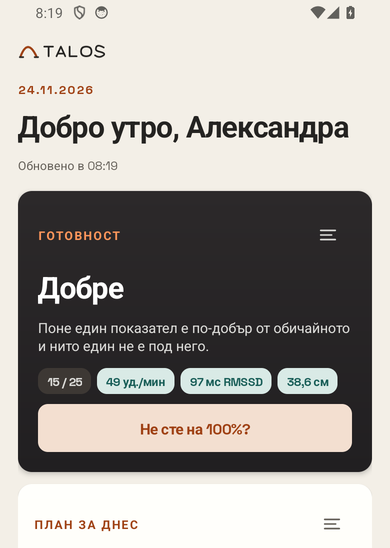
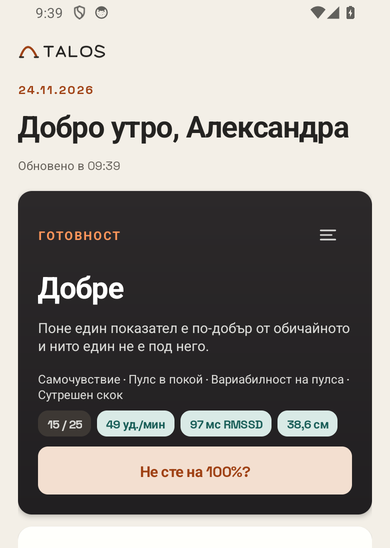
Version 1.4.0-beta16, with the labelled readiness card in the documentation

Changed region(s): [[0.0308, 0.6515, 0.9538, 0.9927], [0.2462, 0.2792, 0.3077, 0.3102], [0.0923, 0.0, 0.1538, 0.031]]

diff --git a/docs/scenarii-demo.md b/docs/scenarii-demo.md
@@ -21,7 +21,7 @@
 1. Предната вечер: отворете https://jumpscan.stormlabs.cloud, влезте с трите демо акаунта и проверете,
    че Александра има история, „Отбор“ показва шестима, а „Готовност“ — всички състояния. Демо данните
    се възстановяват всяка нощ в 3:00 (`python -m server.seed --reset-demo`); влезте отново сутринта.
-2. Телефонът: приложение 1.4.0-beta15, зареден над 80 %, „Не безпокойте“, яркост на максимум, вход като
+2. Телефонът: приложение 1.4.0-beta16, зареден над 80 %, „Не безпокойте“, яркост на максимум, вход като
    `athlete1@demo.test`. Изберете предварително проверен клип и го анализирайте веднъж сутринта, за да
    сте сигурни, че дава число без предупреждение. [АВТОР: кой клип — име на файла.]
 3. Лаптопът: слайдовете (`docs/out/slides.pdf`) в един прозорец, браузър с входа като

diff --git a/docs/predavane.md b/docs/predavane.md
@@ -93,7 +93,7 @@
 ## Преди защитата [АВТОР]
 
 - Системата е публикувана и тестовите акаунти работят (`testovi-akaunti.md`): влезте с администратор,
-  треньор и спортист. Сървърът на живо върви на кода на версия 1.4.0-beta15 и демо данните се
+  треньор и спортист. Сървърът на живо върви на кода на версия 1.4.0-beta16 и демо данните се
   възстановяват всяка нощ; след регистрацията не пускайте нови версии без нужда.
 - На сървъра на живо е свързан облачен модел (NVIDIA, безплатен план); за спортисти под 18 години е изключен.
   Решете дали за защитата да остане той или локален модел на машината с видеокарта. Без него AI помощникът и описаното с думи

diff --git a/docs/ai-instrumenti.md b/docs/ai-instrumenti.md
@@ -8,7 +8,7 @@
 
 Тези факти са проверими от всеки, който отвори кода:
 
-- Историята в Git (клон `stage`, версия 1.4.0-beta15) съдържа 346 записа от 16 до 24 ноември 2026 г.,
+- Историята в Git (клон `stage`, версия 1.4.0-beta16) съдържа 346 записа от 16 до 24 ноември 2026 г.,
   всички с един и същ автор в Git (`storm546`). Git показва кой е записал промяната, а не кой или какво
   е написало текста ѝ. В съобщенията на записите няма редове за съавторство на инструмент.
 - `PLAN.md` описва разделение на работата между „оркестратор“ и „работници“: работник за `server/`

diff --git a/docs/dokumentacia.md b/docs/dokumentacia.md
@@ -141,7 +141,7 @@ Landmarker (тежък модел за видео, лек за живо прос
 
 ### 4.6 Описание на приложението
 
-Системата работи на https://jumpscan.stormlabs.cloud (сървър и уеб панел; приложение 1.4.0-beta15).
+Системата работи на https://jumpscan.stormlabs.cloud (сървър и уеб панел; приложение 1.4.0-beta16).
 Тестовите акаунти за всяка роля са в `testovi-akaunti.md`, паролата е `demo1234`, данните са
 синтетични. Локално: `pip install -r server/requirements.txt`, `python -m server.seed` и `uvicorn
 server.main:app`; за постоянна работа има `Dockerfile`, `docker-compose.yml` и systemd услуга

diff --git a/docs/rakovodstvo.md b/docs/rakovodstvo.md
@@ -1,6 +1,6 @@
 # Ръководство за потребителя
 
-Спортистът използва приложението за Android (версия 1.4.0-beta15) и може да преглежда записите си и в
+Спортистът използва приложението за Android (версия 1.4.0-beta16) и може да преглежда записите си и в
 браузър. Треньорът и администраторът работят в браузър на https://jumpscan.stormlabs.cloud. Числата
 служат за проследяване и разговор с треньора, не за диагноза или медицински съвет.
 

diff --git a/docs/testovi-akaunti.md b/docs/testovi-akaunti.md
@@ -34,7 +34,7 @@
 ## Какво има в данните
 
 Проверено на 23.11.2026 г. с прясно `python -m server.seed --reset-demo`; на 24.11.2026 г. и десетте профила влизат на
-сайта на живо (версия 1.4.0-beta15):
+сайта на живо (версия 1.4.0-beta16):
 
 - **Скокове.** На всеки спортист 10 теста (редуват се скок от място и от платформа, 60 кадъра в секунда)
   и сутрешни проверки за готовността; Александра има общо 66 записа. Един тест на всеки е с

diff --git a/docs/validacia.md b/docs/validacia.md
@@ -320,7 +320,7 @@ YouTube с по един скок: различни хора, камери, ра
 
 ## 9. Автоматични тестове
 
-Състояние към 24.11.2026 г. Сървърът е проверен върху кода на версия 1.4.0-beta15 (685 теста, 1 пропуснат);
+Състояние към 24.11.2026 г. Сървърът е проверен върху кода на версия 1.4.0-beta16 (685 теста, 1 пропуснат);
 ядрото — 101 теста на машината за изграждане на същата дата.
 
 | Част | Резултат | Команда |
